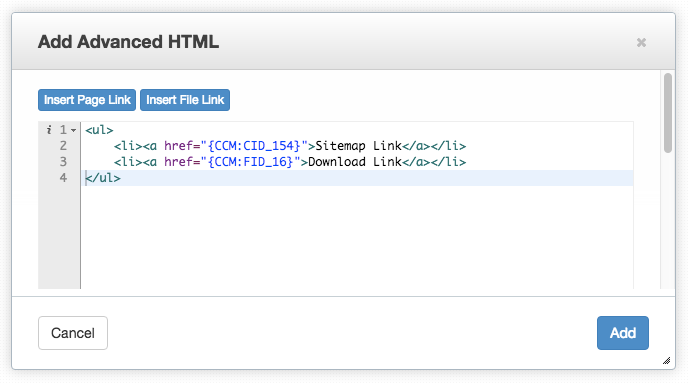
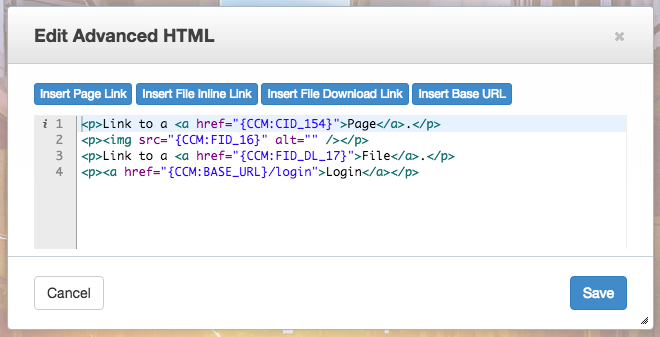
Update

Changed region(s): [[0.0, 0.0, 1.0, 1.0], [0.0909, 0.7418, 0.1212, 0.7715]]

diff --git a/advanced_html_block/blocks/advanced_html/form_setup_html.php b/advanced_html_block/blocks/advanced_html/form_setup_html.php
@@ -2,7 +2,9 @@
 
 <p>
     <button id="ccm-block-advanced-html-page-selector" type="button" class="btn btn-primary btn-xs"><?php echo t('Insert Page Link'); ?></button>
-    <button id="ccm-block-advanced-html-file-selector" type="button" class="btn btn-primary btn-xs"><?php echo t('Insert File Link'); ?></button>
+    <button id="ccm-block-advanced-html-inline-file-selector" type="button" class="btn btn-primary btn-xs"><?php echo t('Insert File Inline Link'); ?></button>
+    <button id="ccm-block-advanced-html-download-file-selector" type="button" class="btn btn-primary btn-xs"><?php echo t('Insert File Download Link'); ?></button>
+    <button id="ccm-block-advanced-html-base-url" type="button" class="btn btn-primary btn-xs"><?php echo t('Insert Base URL'); ?></button>
 </p>
 <div id="ccm-block-advanced-html-value"><?=htmlspecialchars($content,ENT_QUOTES,APP_CHARSET)?></div>
 <textarea style="display: none" id="ccm-block-advanced-html-value-textarea" name="content"></textarea>
@@ -31,10 +33,20 @@
             });
         });
         
-        $('#ccm-block-advanced-html-file-selector').on('click', function() {
+        $('#ccm-block-advanced-html-inline-file-selector').on('click', function() {
             ConcreteFileManager.launchDialog(function(data) {
                 editor.insert('{CCM:FID_' + data.fID + '}');
             });
+        });
+
+        $('#ccm-block-advanced-html-download-file-selector').on('click', function() {
+            ConcreteFileManager.launchDialog(function(data) {
+                editor.insert('{CCM:FID_DL_' + data.fID + '}');
+            });
+        });
+
+        $('#ccm-block-advanced-html-base-url').on('click', function() {
+            editor.insert('{CCM:BASE_URL}');
         });
     });
 

diff --git a/advanced_html_block/controller.php b/advanced_html_block/controller.php
@@ -7,7 +7,7 @@ class Controller extends \Concrete\Core\Package\Package
 {
     protected $pkgHandle = 'advanced_html_block';
     protected $appVersionRequired = '5.7.5';
-    protected $pkgVersion = '0.1';
+    protected $pkgVersion = '0.9';
 
     public function getPackageDescription()
     {
